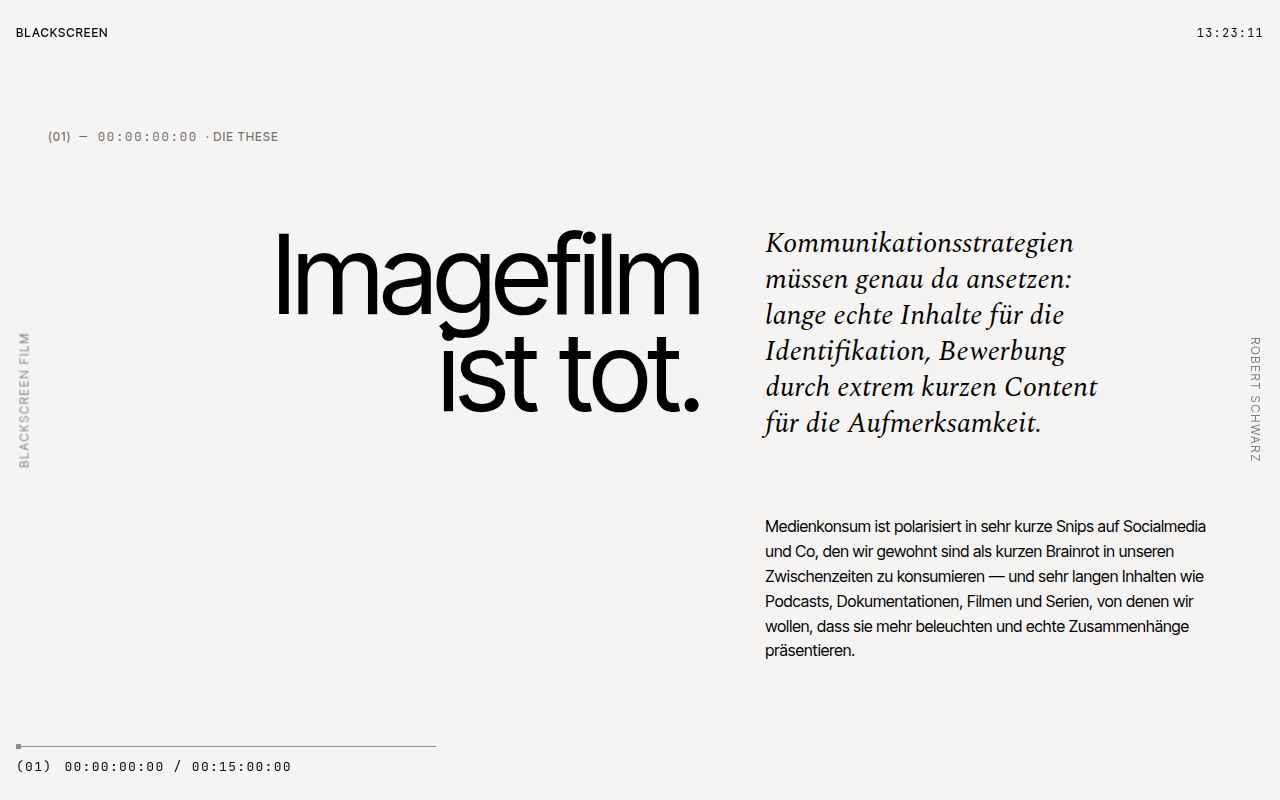
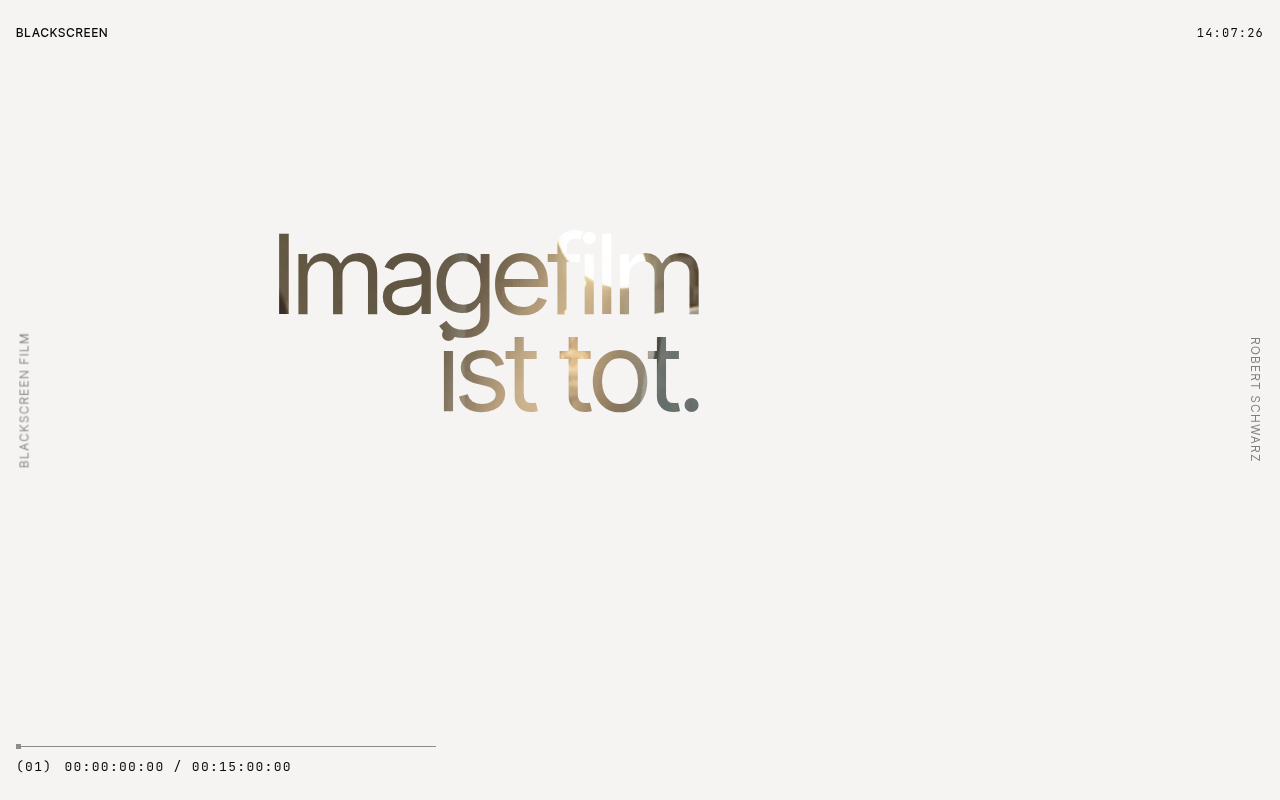
poc-blackscreen-moduswechsel: Hero-Eintritt eingebaut (Der Film kollabiert in den Satz, 3.400 ms) + varianten.html als Herleitung

diff --git a/poc-blackscreen-moduswechsel/assets/varianten-CXZj9XB6.css b/poc-blackscreen-moduswechsel/assets/varianten-CXZj9XB6.css
@@ -1,0 +1,1 @@
+@font-face{font-family:Inter Tight Variable;font-style:normal;font-display:swap;font-weight:100 900;src:url(./inter-tight-cyrillic-ext-wght-normal-okcGN4Nq.woff2) format("woff2-variations");unicode-range:U+0460-052F,U+1C80-1C8A,U+20B4,U+2DE0-2DFF,U+A640-A69F,U+FE2E-FE2F}@font-face{font-family:Inter Tight Variable;font-style:normal;font-display:swap;font-weight:100 900;src:url(./inter-tight-cyrillic-wght-normal-BS41q_Tv.woff2) format("woff2-variations");unicode-range:U+0301,U+0400-045F,U+0490-0491,U+04B0-04B1,U+2116}@font-face{font-family:Inter Tight Variable;font-style:normal;font-display:swap;font-weight:100 900;src:url(./inter-tight-greek-ext-wght-normal-DQgQPNk4.woff2) format("woff2-variations");unicode-range:U+1F00-1FFF}@font-face{font-family:Inter Tight Variable;font-style:normal;font-display:swap;font-weight:100 900;src:url(./inter-tight-greek-wght-normal-sS1B39LI.woff2) format("woff2-variations");unicode-range:U+0370-0377,U+037A-037F,U+0384-038A,U+038C,U+038E-03A1,U+03A3-03FF}@font-face{font-family:Inter Tight Variable;font-style:normal;font-display:swap;font-weight:100 900;src:url(./inter-tight-vietnamese-wght-normal-TKKdAiBA.woff2) format("woff2-variations");unicode-range:U+0102-0103,U+0110-0111,U+0128-0129,U+0168-0169,U+01A0-01A1,U+01AF-01B0,U+0300-0301,U+0303-0304,U+0308-0309,U+0323,U+0329,U+1EA0-1EF9,U+20AB}@font-face{font-family:Inter Tight Variable;font-style:normal;font-display:swap;font-weight:100 900;src:url(./inter-tight-latin-ext-wght-normal-B4u9PlvR.woff2) format("woff2-variations");unicode-range:U+0100-02BA,U+02BD-02C5,U+02C7-02CC,U+02CE-02D7,U+02DD-02FF,U+0304,U+0308,U+0329,U+1D00-1DBF,U+1E00-1E9F,U+1EF2-1EFF,U+2020,U+20A0-20AB,U+20AD-20C0,U+2113,U+2C60-2C7F,U+A720-A7FF}@font-face{font-family:Inter Tight Variable;font-style:normal;font-display:swap;font-weight:100 900;src:url(./inter-tight-latin-wght-normal-DX-nOvPD.woff2) format("woff2-variations");unicode-range:U+0000-00FF,U+0131,U+0152-0153,U+02BB-02BC,U+02C6,U+02DA,U+02DC,U+0304,U+0308,U+0329,U+2000-206F,U+20AC,U+2122,U+2191,U+2193,U+2212,U+2215,U+FEFF,U+FFFD}@font-face{font-family:Spectral;src:url(./Spectral-Italic-CDO25mTW.woff2) format("woff2");font-weight:400;font-style:italic;font-display:swap}@font-face{font-family:JetBrains Mono;src:url(./JetBrainsMono-subset-B1Xq3IVu.woff2) format("woff2");font-weight:400;font-style:normal;font-display:swap;unicode-range:U+0020-002F,U+0030-0039,U+003A-0040,U+0041-005A,U+00C4,U+00D6,U+00DC,U+00DF,U+00B7,U+2013,U+2014}:root{--paper: #f5f4f3;--ink: #000000;--near-black: #0a0a0a;--p-text: #000000;--p-strong: rgba(0, 0, 0, .85);--p-muted: rgba(0, 0, 0, .7);--p-dim: rgba(0, 0, 0, .55);--p-hair: rgba(0, 0, 0, .25);--pr-text: #f5f4f3;--pr-strong: rgba(245, 244, 243, .85);--pr-muted: rgba(245, 244, 243, .7);--pr-dim: rgba(245, 244, 243, .55);--pr-faint: rgba(245, 244, 243, .4);--pr-hair: rgba(255, 255, 255, .4);--radius: 0;--s-1: 4px;--s-2: 8px;--s-3: 12px;--s-4: 16px;--s-5: 24px;--s-6: 32px;--s-7: 40px;--s-8: 48px;--s-9: 64px;--s-10: 96px;--s-11: 128px;--space-edge: 16px;--col-step: 178px;--container: 1408px;--font-sans: "Inter Tight Variable", system-ui, -apple-system, sans-serif;--font-serif: "Spectral", Georgia, serif;--font-mono: "JetBrains Mono", ui-monospace, monospace;--vw: 100vw;--panels: 5;--steps: 6.55;--tempo: .85}*,*:before,*:after{box-sizing:border-box}html{scroll-behavior:auto}body{margin:0;background:var(--paper);color:var(--p-text);font-family:var(--font-sans);font-size:16px;line-height:1.55;font-weight:400;-webkit-font-smoothing:antialiased;overflow-x:hidden}h1,h2,h3,p,ol,ul{margin:0}ol,ul{list-style:none;padding:0}a{color:inherit}img{max-width:100%}:focus-visible{outline:2px solid currentcolor;outline-offset:4px}.skip-link{position:fixed;top:var(--s-4);left:var(--s-4);z-index:100;padding:var(--s-3) var(--s-5);background:var(--ink);color:var(--paper);font-size:12px;letter-spacing:.08em;text-transform:uppercase;transform:translateY(-200%)}.skip-link:focus-visible{transform:none}.t-mega{font-family:var(--font-sans);font-size:clamp(44px,8.6vw,172px);line-height:.88;letter-spacing:-.03em;font-weight:400;margin-bottom:.3em}.t-section{font-size:clamp(32px,4.6vw,90px);line-height:.94;letter-spacing:-.02em;font-weight:400;margin-bottom:.3em}.t-lead{font-family:var(--font-serif);font-style:italic;font-size:clamp(20px,2.2vw,30px);line-height:1.28;font-weight:400;max-width:24ch;margin-bottom:var(--s-7)}.t-sub{font-size:clamp(22px,1.9vw,34px);line-height:1.12;letter-spacing:-.01em;font-weight:500;margin-bottom:var(--s-3)}.t-body{font-size:16px;line-height:1.55;max-width:62ch;margin-bottom:var(--s-5)}.marke,.panel__meta{font-size:12px;line-height:1.4;letter-spacing:.08em;text-transform:uppercase;font-weight:500;color:var(--p-dim);margin-bottom:var(--s-8)}.marke{display:flex;flex-wrap:wrap;gap:0 var(--s-2);align-items:baseline}.marke__tc{font-family:var(--font-mono);font-size:13px;letter-spacing:.1em;font-variant-numeric:tabular-nums}.marke__tc:empty{display:none}.marke__tc:not(:empty):before{content:"— "}.marke__label:before{content:"· "}.panel__tc,.leistung__nr{font-family:var(--font-mono);font-size:13px;line-height:1.3;letter-spacing:.1em;font-variant-numeric:tabular-nums}.chrome{position:fixed;z-index:80;pointer-events:none;color:var(--ink);mix-blend-mode:difference;filter:invert(100%);font-size:12px;letter-spacing:.08em;text-transform:uppercase;font-weight:500}.chrome--wordmark{top:var(--s-5);left:var(--space-edge)}.chrome--uhr{top:var(--s-5);right:var(--space-edge);font-family:var(--font-mono);font-variant-numeric:tabular-nums;letter-spacing:.1em;text-transform:none}.achse{position:fixed;top:calc(var(--s-5) + var(--s-6));right:var(--space-edge);z-index:80;pointer-events:none;color:var(--ink);mix-blend-mode:difference;filter:invert(100%)}.achse__bahn{display:none;position:relative;height:1px;background:currentcolor;opacity:.45;margin-bottom:var(--s-3)}.achse__marke{position:absolute;top:-2px;left:0;width:5px;height:5px;background:currentcolor;transform:translateZ(0)}.achse__text{display:flex;gap:var(--s-3);font-family:var(--font-mono);font-size:13px;line-height:1.3;letter-spacing:.1em;font-variant-numeric:tabular-nums}.achse__tc:empty{display:none}.achse__tc{display:none}.brand-edge{position:fixed;top:50%;z-index:80;writing-mode:vertical-rl;pointer-events:none;font-size:12px;letter-spacing:.14em;color:var(--ink);mix-blend-mode:difference;filter:invert(100%);opacity:.5}.brand-edge--l{left:var(--space-edge);transform:translateY(-50%) rotate(180deg)}.brand-edge--r{right:var(--space-edge);transform:translateY(-50%)}@media(max-width:950px){.brand-edge{display:none}}.blende{position:fixed;top:0;right:0;bottom:0;left:0;z-index:70;pointer-events:none}.blende__bar{position:absolute;left:0;right:0;height:51%;background:var(--ink)}.blende__bar--top{top:0;transform:translate3d(0,-100%,0)}.blende__bar--bot{bottom:0;transform:translate3d(0,100%,0)}.blende-zone{height:0}.blende-zone--ab{background:linear-gradient(to bottom,var(--paper) 0 50%,var(--ink) 50% 100%)}.blende-zone--auf{background:linear-gradient(to bottom,var(--ink) 0 50%,var(--paper) 50% 100%)}.sektion{padding:var(--s-11) var(--space-edge);max-width:var(--container)}.sektion--papier{background:var(--paper);color:var(--p-text);min-height:100svh;display:grid;align-content:center;grid-template-columns:minmax(0,7fr) minmax(0,5fr);column-gap:var(--s-9);row-gap:var(--s-6)}.sektion--papier>.marke{grid-column:1 / -1}.sektion--papier>.t-mega,.sektion--papier>.t-section{grid-column:1;text-align:right}.sektion--papier>.t-lead,.sektion--papier>.t-body,.sektion--papier>.leistungen{grid-column:2}.sektion--projektion{background:var(--ink);color:var(--pr-text);max-width:none;padding:0}.sektion--projektion .marke{color:var(--pr-dim)}.hero{--hero-dauer: 3.4s;position:relative}.hero__still{position:absolute;top:0;bottom:0;left:0;z-index:0;width:var(--vw, 100vw);max-width:none;height:100%;object-fit:cover;opacity:0}.hero>.marke,.hero>.t-mega,.hero>.t-lead,.hero>.t-body{position:relative;z-index:1}.hero__typo{background-image:url(./kinderseele-1920-BzvHoJ-I.webp);background-repeat:no-repeat;-webkit-background-clip:text;background-clip:text;-webkit-text-fill-color:var(--p-text)}.js .hero__still{animation:hero-still var(--hero-dauer) both}.js .hero__typo{animation:hero-typo var(--hero-dauer) both}.js .hero>.marke,.js .hero>.t-lead,.js .hero>.t-body{animation:hero-rest .8s 2.4s both}@keyframes hero-still{0%,26%{opacity:1}56%,to{opacity:0}}@keyframes hero-typo{0%,26%{-webkit-text-fill-color:transparent;opacity:0}44%,76%{-webkit-text-fill-color:transparent;opacity:1}to{-webkit-text-fill-color:#000;opacity:1}}@keyframes hero-rest{0%{opacity:0}to{opacity:1}}.werk__pin{position:relative}.marke--pin{padding:var(--s-9) var(--space-edge) 0;margin-bottom:var(--s-6);justify-content:flex-end}.werk__track{display:block}.panel{position:relative;min-height:62svh;display:flex;flex-direction:column;justify-content:flex-end;overflow:hidden}.panel__still{position:absolute;top:0;right:0;bottom:0;left:0;z-index:0;background:linear-gradient(148deg,#3a3a3a,#101010 62%,#262626);clip-path:none}.panel__still:after{content:"STILL — MATERIAL FOLGT";position:absolute;top:var(--s-10);left:50%;transform:translate(-50%);font-family:var(--font-mono);font-size:13px;letter-spacing:.1em;color:var(--pr-faint)}.panel__still--2{background:linear-gradient(24deg,#2e2e2e,#0d0d0d 58%,#3c3c3c)}.panel__still--3{background:linear-gradient(200deg,#343434,#0b0b0b 55%,#2a2a2a)}.panel__still--4{background:linear-gradient(76deg,#282828,#101010 60%,#3f3f3f)}.panel__still--5{background:linear-gradient(320deg,#333,#0c0c0c 64%,#242424)}.panel:after{content:"";position:absolute;top:0;right:0;bottom:0;left:0;z-index:1;pointer-events:none;background:linear-gradient(to top,#000000e6,#0006 44%,#0000 72%)}.panel__tc{position:absolute;right:var(--space-edge);bottom:var(--s-6);z-index:2;color:var(--pr-dim)}.panel__text{position:relative;z-index:2;padding:var(--s-9) var(--space-edge)}.panel__text .t-body{color:var(--pr-strong);max-width:44ch}.panel__meta{color:var(--pr-muted);margin-bottom:var(--s-5)}.panel__link{display:inline-block;margin-top:var(--s-3);padding-bottom:var(--s-1);border-bottom:1px solid var(--pr-hair);font-size:12px;letter-spacing:.08em;text-transform:uppercase;font-weight:500;text-decoration:none;transition:opacity .18s ease-out}@media(hover:hover)and (pointer:fine){.panel__link:hover{opacity:.6}}.leistungen{border-top:1px solid var(--p-hair);max-width:72ch}.leistung{display:flex;gap:var(--s-5);align-items:baseline;padding:var(--s-5) 0;border-bottom:1px solid var(--p-hair);font-size:clamp(18px,1.6vw,24px)}.leistung__nr{color:var(--p-dim);flex:0 0 auto}.mail{font-size:clamp(20px,2.4vw,34px);text-decoration:none;border-bottom:1px solid var(--p-hair)}.fussnote{background:var(--paper);color:var(--p-muted);padding:var(--s-9) var(--space-edge) var(--s-10);font-size:12px;line-height:1.6}.fussnote p{max-width:76ch}@media(min-width:951px){.sektion--papier,.fussnote,.marke--pin,.panel__text{padding-left:var(--s-8);padding-right:var(--s-8)}.panel__tc{right:var(--s-8)}}@media(min-width:951px)and (prefers-reduced-motion:no-preference){.js .blende-zone{height:60svh}.js .werk{height:calc(100svh + var(--steps) * var(--tempo) * var(--vw))}.js .werk__pin{position:sticky;top:0;height:100svh;overflow:hidden;overflow:clip}.js .marke--pin{position:absolute;top:calc(var(--s-5) + var(--s-6));right:0;z-index:3;padding:0 var(--space-edge) 0 0;margin:0;color:var(--pr-dim);justify-content:flex-end}.js .achse{top:auto;right:auto;bottom:var(--s-5);left:var(--space-edge);width:min(38vw,420px)}.js .achse__bahn{display:block}.js .achse__tc:not(:empty){display:inline}.js .werk__track{display:flex;width:calc(var(--panels) * var(--vw));height:100%}.js .panel{flex:0 0 var(--vw);width:var(--vw);min-height:0;height:100%}.js .panel__text{padding-left:calc(var(--s-8) + var(--col-step));padding-bottom:var(--s-10)}}@media(max-width:950px){:root{--col-step: 0px}body,.t-body{font-size:17px}.sektion--papier{padding:var(--s-10) var(--space-edge);grid-template-columns:1fr;align-content:start;min-height:0}.sektion--papier>.t-mega,.sektion--papier>.t-section,.sektion--papier>.t-lead,.sektion--papier>.t-body,.sektion--papier>.leistungen{grid-column:1}.sektion--papier>.t-mega,.sektion--papier>.t-section{text-align:left}.marke{margin-bottom:var(--s-6)}.chrome--wordmark,.achse{top:var(--s-4)}.chrome--uhr{display:none}}@media(prefers-reduced-motion:reduce){.blende{display:none}.js .hero__still{animation:none;opacity:0}.js .hero__typo{animation:none;background-image:none;-webkit-text-fill-color:currentcolor;opacity:1}.js .hero>.marke,.js .hero>.t-lead,.js .hero>.t-body{animation:none;opacity:1}}body.varianten{overflow-x:hidden}.svg-defs{position:absolute;width:0;height:0;overflow:hidden}.vk{max-width:62ch;padding:var(--s-10) var(--s-8) var(--s-8)}.vk--fuss{max-width:none;padding-bottom:var(--s-11);border-top:1px solid var(--p-hair);margin-top:var(--s-10)}.vk__marke{font-family:var(--font-mono);font-size:13px;letter-spacing:.1em;color:var(--p-dim);margin-bottom:var(--s-5)}.vk__titel{font-size:clamp(32px,3.4vw,56px);line-height:1;letter-spacing:-.02em;font-weight:400;margin-bottom:var(--s-6)}.vk__titel--klein{font-size:clamp(24px,2vw,34px);margin-bottom:var(--s-5)}.vk__text{max-width:62ch;margin-bottom:var(--s-5)}.vk__text--eng{color:var(--p-muted);font-size:15px}.vk__hinweis{max-width:62ch;margin-top:var(--s-6);padding:var(--s-4) var(--s-5);border-left:2px solid var(--p-text);background:#0000000a;font-size:15px;line-height:1.5}code{font-family:var(--font-mono);font-size:.86em}.variante{border-top:1px solid var(--p-hair)}.variante__kopf{padding:var(--s-9) var(--s-8) var(--s-7);max-width:78ch}.variante__nr{font-family:var(--font-mono);font-size:13px;letter-spacing:.1em;color:var(--p-dim);margin-bottom:var(--s-3)}.variante__titel{font-size:clamp(26px,2.6vw,42px);line-height:1.05;letter-spacing:-.02em;font-weight:400;margin-bottom:var(--s-4)}.variante__these{max-width:68ch;margin-bottom:var(--s-6);color:var(--p-strong)}.variante__knopf{font-family:var(--font-sans);font-size:12px;font-weight:500;letter-spacing:.08em;text-transform:uppercase;padding:var(--s-3) var(--s-6);border:1px solid var(--p-text);background:transparent;color:var(--p-text);cursor:pointer;transition:background-color .18s ease-out,color .18s ease-out}@media(hover:hover)and (pointer:fine){.variante__knopf:hover{background:var(--p-text);color:var(--paper)}}.buehne{position:relative;height:82svh;min-height:520px;overflow:hidden;background:var(--ink)}.buehne--papier{background:var(--paper)}.buehne__raster{position:absolute;top:0;right:0;bottom:0;left:0;z-index:2;display:grid;align-content:center;grid-template-columns:minmax(0,7fr) minmax(0,5fr);column-gap:var(--s-9);row-gap:var(--s-6);padding:0 var(--s-8)}.buehne__raster>.marke{grid-column:1 / -1}.buehne__raster>.t-mega{grid-column:1;text-align:right;margin-bottom:0}.buehne__raster>.t-lead{grid-column:2;margin-bottom:0}@media(max-width:950px){.buehne__raster{grid-template-columns:1fr;align-content:end;padding:0 var(--space-edge) var(--s-8)}.buehne__raster>.t-mega{text-align:left}.vk,.variante__kopf{padding-left:var(--space-edge);padding-right:var(--space-edge)}}.v1{background:var(--paper)}.v1__still{position:absolute;top:0;right:0;bottom:0;left:0;z-index:0;width:100%;height:100%;object-fit:cover;opacity:0}.v1__typo{background-image:url(./kinderseele-1920-BzvHoJ-I.webp);background-repeat:no-repeat;-webkit-background-clip:text;background-clip:text;-webkit-text-fill-color:var(--p-text)}.js .v1.laeuft .v1__still{animation:v1-still var(--hero-dauer) both}.js .v1.laeuft .v1__typo{animation:v1-typo var(--hero-dauer) both}.js .v1.laeuft .marke,.js .v1.laeuft .t-lead{animation:v1-rest .8s 2.4s both}.v1{--hero-dauer: 3.4s}@keyframes v1-still{0%,26%{opacity:1}56%,to{opacity:0}}@keyframes v1-typo{0%,26%{-webkit-text-fill-color:transparent;opacity:0}44%,76%{-webkit-text-fill-color:transparent;opacity:1}to{-webkit-text-fill-color:#000;opacity:1}}@keyframes v1-rest{0%{opacity:0}to{opacity:1}}.js .v2 .zeile{opacity:0}.js .v2.laeuft .zeile{animation:anlauf .62s steps(1,end) both}.js .v2.laeuft .zeile:nth-of-type(2){animation-delay:80ms}.js .v2 .marke,.js .v2 .t-lead{opacity:0}.js .v2.laeuft .marke,.js .v2.laeuft .t-lead{animation:v1-rest .5s .62s both}@keyframes anlauf{0%{opacity:0;transform:translate3d(0,-4px,0)}16%{opacity:.55;transform:translate3d(0,3px,0)}32%{opacity:.08;transform:translate3d(0,-2px,0)}48%{opacity:.9;transform:translate3d(0,2px,0)}64%{opacity:.25;transform:translate3d(0,-1px,0)}80%{opacity:1;transform:translate3d(0,1px,0)}to{opacity:1;transform:none}}.js .v3 .v3__typo{opacity:0}.js .v3.laeuft .v3__typo{filter:url(#tinte);animation:v3-tinte 1.1s cubic-bezier(.16,1,.3,1) both}.js .v3 .marke,.js .v3 .t-lead{opacity:0}.js .v3.laeuft .marke,.js .v3.laeuft .t-lead{animation:v1-rest .6s .9s both}@keyframes v3-tinte{0%{opacity:0}30%{opacity:1}to{opacity:1}}.tabelle{overflow-x:auto;padding:0 var(--s-8);margin-bottom:var(--s-7)}.tabelle table{border-collapse:collapse;font-size:14px;min-width:46rem}.tabelle th,.tabelle td{text-align:left;padding:var(--s-3) var(--s-5) var(--s-3) 0;border-bottom:1px solid var(--p-hair);vertical-align:top}.tabelle th{font-size:12px;letter-spacing:.08em;text-transform:uppercase;font-weight:500;color:var(--p-dim)}.tabelle__ref td{color:var(--p-muted)}@media(max-width:950px){.tabelle{padding:0 var(--space-edge)}.vk--fuss{padding-left:0;padding-right:0}}@media(prefers-reduced-motion:reduce){.js .v1 .v1__still,.js .v1.laeuft .v1__still{animation:none;opacity:0}.js .v1 .v1__typo,.js .v1.laeuft .v1__typo{animation:none;background-image:none;-webkit-text-fill-color:currentcolor}.js .v2 .zeile,.js .v2.laeuft .zeile,.js .v3 .v3__typo,.js .v3.laeuft .v3__typo,.js .marke,.js .t-lead{animation:none;opacity:1;transform:none;filter:none}}

diff --git a/poc-blackscreen-moduswechsel/assets/main-Btgn0ElK.css b/poc-blackscreen-moduswechsel/assets/main-Btgn0ElK.css
@@ -1,0 +1,1 @@
+@font-face{font-family:Inter Tight Variable;font-style:normal;font-display:swap;font-weight:100 900;src:url(./inter-tight-cyrillic-ext-wght-normal-okcGN4Nq.woff2) format("woff2-variations");unicode-range:U+0460-052F,U+1C80-1C8A,U+20B4,U+2DE0-2DFF,U+A640-A69F,U+FE2E-FE2F}@font-face{font-family:Inter Tight Variable;font-style:normal;font-display:swap;font-weight:100 900;src:url(./inter-tight-cyrillic-wght-normal-BS41q_Tv.woff2) format("woff2-variations");unicode-range:U+0301,U+0400-045F,U+0490-0491,U+04B0-04B1,U+2116}@font-face{font-family:Inter Tight Variable;font-style:normal;font-display:swap;font-weight:100 900;src:url(./inter-tight-greek-ext-wght-normal-DQgQPNk4.woff2) format("woff2-variations");unicode-range:U+1F00-1FFF}@font-face{font-family:Inter Tight Variable;font-style:normal;font-display:swap;font-weight:100 900;src:url(./inter-tight-greek-wght-normal-sS1B39LI.woff2) format("woff2-variations");unicode-range:U+0370-0377,U+037A-037F,U+0384-038A,U+038C,U+038E-03A1,U+03A3-03FF}@font-face{font-family:Inter Tight Variable;font-style:normal;font-display:swap;font-weight:100 900;src:url(./inter-tight-vietnamese-wght-normal-TKKdAiBA.woff2) format("woff2-variations");unicode-range:U+0102-0103,U+0110-0111,U+0128-0129,U+0168-0169,U+01A0-01A1,U+01AF-01B0,U+0300-0301,U+0303-0304,U+0308-0309,U+0323,U+0329,U+1EA0-1EF9,U+20AB}@font-face{font-family:Inter Tight Variable;font-style:normal;font-display:swap;font-weight:100 900;src:url(./inter-tight-latin-ext-wght-normal-B4u9PlvR.woff2) format("woff2-variations");unicode-range:U+0100-02BA,U+02BD-02C5,U+02C7-02CC,U+02CE-02D7,U+02DD-02FF,U+0304,U+0308,U+0329,U+1D00-1DBF,U+1E00-1E9F,U+1EF2-1EFF,U+2020,U+20A0-20AB,U+20AD-20C0,U+2113,U+2C60-2C7F,U+A720-A7FF}@font-face{font-family:Inter Tight Variable;font-style:normal;font-display:swap;font-weight:100 900;src:url(./inter-tight-latin-wght-normal-DX-nOvPD.woff2) format("woff2-variations");unicode-range:U+0000-00FF,U+0131,U+0152-0153,U+02BB-02BC,U+02C6,U+02DA,U+02DC,U+0304,U+0308,U+0329,U+2000-206F,U+20AC,U+2122,U+2191,U+2193,U+2212,U+2215,U+FEFF,U+FFFD}@font-face{font-family:Spectral;src:url(./Spectral-Italic-CDO25mTW.woff2) format("woff2");font-weight:400;font-style:italic;font-display:swap}@font-face{font-family:JetBrains Mono;src:url(./JetBrainsMono-subset-B1Xq3IVu.woff2) format("woff2");font-weight:400;font-style:normal;font-display:swap;unicode-range:U+0020-002F,U+0030-0039,U+003A-0040,U+0041-005A,U+00C4,U+00D6,U+00DC,U+00DF,U+00B7,U+2013,U+2014}:root{--paper: #f5f4f3;--ink: #000000;--near-black: #0a0a0a;--p-text: #000000;--p-strong: rgba(0, 0, 0, .85);--p-muted: rgba(0, 0, 0, .7);--p-dim: rgba(0, 0, 0, .55);--p-hair: rgba(0, 0, 0, .25);--pr-text: #f5f4f3;--pr-strong: rgba(245, 244, 243, .85);--pr-muted: rgba(245, 244, 243, .7);--pr-dim: rgba(245, 244, 243, .55);--pr-faint: rgba(245, 244, 243, .4);--pr-hair: rgba(255, 255, 255, .4);--radius: 0;--s-1: 4px;--s-2: 8px;--s-3: 12px;--s-4: 16px;--s-5: 24px;--s-6: 32px;--s-7: 40px;--s-8: 48px;--s-9: 64px;--s-10: 96px;--s-11: 128px;--space-edge: 16px;--col-step: 178px;--container: 1408px;--font-sans: "Inter Tight Variable", system-ui, -apple-system, sans-serif;--font-serif: "Spectral", Georgia, serif;--font-mono: "JetBrains Mono", ui-monospace, monospace;--vw: 100vw;--panels: 5;--steps: 6.55;--tempo: .85}*,*:before,*:after{box-sizing:border-box}html{scroll-behavior:auto}body{margin:0;background:var(--paper);color:var(--p-text);font-family:var(--font-sans);font-size:16px;line-height:1.55;font-weight:400;-webkit-font-smoothing:antialiased;overflow-x:hidden}h1,h2,h3,p,ol,ul{margin:0}ol,ul{list-style:none;padding:0}a{color:inherit}img{max-width:100%}:focus-visible{outline:2px solid currentcolor;outline-offset:4px}.skip-link{position:fixed;top:var(--s-4);left:var(--s-4);z-index:100;padding:var(--s-3) var(--s-5);background:var(--ink);color:var(--paper);font-size:12px;letter-spacing:.08em;text-transform:uppercase;transform:translateY(-200%)}.skip-link:focus-visible{transform:none}.t-mega{font-family:var(--font-sans);font-size:clamp(44px,8.6vw,172px);line-height:.88;letter-spacing:-.03em;font-weight:400;margin-bottom:.3em}.t-section{font-size:clamp(32px,4.6vw,90px);line-height:.94;letter-spacing:-.02em;font-weight:400;margin-bottom:.3em}.t-lead{font-family:var(--font-serif);font-style:italic;font-size:clamp(20px,2.2vw,30px);line-height:1.28;font-weight:400;max-width:24ch;margin-bottom:var(--s-7)}.t-sub{font-size:clamp(22px,1.9vw,34px);line-height:1.12;letter-spacing:-.01em;font-weight:500;margin-bottom:var(--s-3)}.t-body{font-size:16px;line-height:1.55;max-width:62ch;margin-bottom:var(--s-5)}.marke,.panel__meta{font-size:12px;line-height:1.4;letter-spacing:.08em;text-transform:uppercase;font-weight:500;color:var(--p-dim);margin-bottom:var(--s-8)}.marke{display:flex;flex-wrap:wrap;gap:0 var(--s-2);align-items:baseline}.marke__tc{font-family:var(--font-mono);font-size:13px;letter-spacing:.1em;font-variant-numeric:tabular-nums}.marke__tc:empty{display:none}.marke__tc:not(:empty):before{content:"— "}.marke__label:before{content:"· "}.panel__tc,.leistung__nr{font-family:var(--font-mono);font-size:13px;line-height:1.3;letter-spacing:.1em;font-variant-numeric:tabular-nums}.chrome{position:fixed;z-index:80;pointer-events:none;color:var(--ink);mix-blend-mode:difference;filter:invert(100%);font-size:12px;letter-spacing:.08em;text-transform:uppercase;font-weight:500}.chrome--wordmark{top:var(--s-5);left:var(--space-edge)}.chrome--uhr{top:var(--s-5);right:var(--space-edge);font-family:var(--font-mono);font-variant-numeric:tabular-nums;letter-spacing:.1em;text-transform:none}.achse{position:fixed;top:calc(var(--s-5) + var(--s-6));right:var(--space-edge);z-index:80;pointer-events:none;color:var(--ink);mix-blend-mode:difference;filter:invert(100%)}.achse__bahn{display:none;position:relative;height:1px;background:currentcolor;opacity:.45;margin-bottom:var(--s-3)}.achse__marke{position:absolute;top:-2px;left:0;width:5px;height:5px;background:currentcolor;transform:translateZ(0)}.achse__text{display:flex;gap:var(--s-3);font-family:var(--font-mono);font-size:13px;line-height:1.3;letter-spacing:.1em;font-variant-numeric:tabular-nums}.achse__tc:empty{display:none}.achse__tc{display:none}.brand-edge{position:fixed;top:50%;z-index:80;writing-mode:vertical-rl;pointer-events:none;font-size:12px;letter-spacing:.14em;color:var(--ink);mix-blend-mode:difference;filter:invert(100%);opacity:.5}.brand-edge--l{left:var(--space-edge);transform:translateY(-50%) rotate(180deg)}.brand-edge--r{right:var(--space-edge);transform:translateY(-50%)}@media(max-width:950px){.brand-edge{display:none}}.blende{position:fixed;top:0;right:0;bottom:0;left:0;z-index:70;pointer-events:none}.blende__bar{position:absolute;left:0;right:0;height:51%;background:var(--ink)}.blende__bar--top{top:0;transform:translate3d(0,-100%,0)}.blende__bar--bot{bottom:0;transform:translate3d(0,100%,0)}.blende-zone{height:0}.blende-zone--ab{background:linear-gradient(to bottom,var(--paper) 0 50%,var(--ink) 50% 100%)}.blende-zone--auf{background:linear-gradient(to bottom,var(--ink) 0 50%,var(--paper) 50% 100%)}.sektion{padding:var(--s-11) var(--space-edge);max-width:var(--container)}.sektion--papier{background:var(--paper);color:var(--p-text);min-height:100svh;display:grid;align-content:center;grid-template-columns:minmax(0,7fr) minmax(0,5fr);column-gap:var(--s-9);row-gap:var(--s-6)}.sektion--papier>.marke{grid-column:1 / -1}.sektion--papier>.t-mega,.sektion--papier>.t-section{grid-column:1;text-align:right}.sektion--papier>.t-lead,.sektion--papier>.t-body,.sektion--papier>.leistungen{grid-column:2}.sektion--projektion{background:var(--ink);color:var(--pr-text);max-width:none;padding:0}.sektion--projektion .marke{color:var(--pr-dim)}.hero{--hero-dauer: 3.4s;position:relative}.hero__still{position:absolute;top:0;bottom:0;left:0;z-index:0;width:var(--vw, 100vw);max-width:none;height:100%;object-fit:cover;opacity:0}.hero>.marke,.hero>.t-mega,.hero>.t-lead,.hero>.t-body{position:relative;z-index:1}.hero__typo{background-image:url(./kinderseele-1920-BzvHoJ-I.webp);background-repeat:no-repeat;-webkit-background-clip:text;background-clip:text;-webkit-text-fill-color:var(--p-text)}.js .hero__still{animation:hero-still var(--hero-dauer) both}.js .hero__typo{animation:hero-typo var(--hero-dauer) both}.js .hero>.marke,.js .hero>.t-lead,.js .hero>.t-body{animation:hero-rest .8s 2.4s both}@keyframes hero-still{0%,26%{opacity:1}56%,to{opacity:0}}@keyframes hero-typo{0%,26%{-webkit-text-fill-color:transparent;opacity:0}44%,76%{-webkit-text-fill-color:transparent;opacity:1}to{-webkit-text-fill-color:#000;opacity:1}}@keyframes hero-rest{0%{opacity:0}to{opacity:1}}.werk__pin{position:relative}.marke--pin{padding:var(--s-9) var(--space-edge) 0;margin-bottom:var(--s-6);justify-content:flex-end}.werk__track{display:block}.panel{position:relative;min-height:62svh;display:flex;flex-direction:column;justify-content:flex-end;overflow:hidden}.panel__still{position:absolute;top:0;right:0;bottom:0;left:0;z-index:0;background:linear-gradient(148deg,#3a3a3a,#101010 62%,#262626);clip-path:none}.panel__still:after{content:"STILL — MATERIAL FOLGT";position:absolute;top:var(--s-10);left:50%;transform:translate(-50%);font-family:var(--font-mono);font-size:13px;letter-spacing:.1em;color:var(--pr-faint)}.panel__still--2{background:linear-gradient(24deg,#2e2e2e,#0d0d0d 58%,#3c3c3c)}.panel__still--3{background:linear-gradient(200deg,#343434,#0b0b0b 55%,#2a2a2a)}.panel__still--4{background:linear-gradient(76deg,#282828,#101010 60%,#3f3f3f)}.panel__still--5{background:linear-gradient(320deg,#333,#0c0c0c 64%,#242424)}.panel:after{content:"";position:absolute;top:0;right:0;bottom:0;left:0;z-index:1;pointer-events:none;background:linear-gradient(to top,#000000e6,#0006 44%,#0000 72%)}.panel__tc{position:absolute;right:var(--space-edge);bottom:var(--s-6);z-index:2;color:var(--pr-dim)}.panel__text{position:relative;z-index:2;padding:var(--s-9) var(--space-edge)}.panel__text .t-body{color:var(--pr-strong);max-width:44ch}.panel__meta{color:var(--pr-muted);margin-bottom:var(--s-5)}.panel__link{display:inline-block;margin-top:var(--s-3);padding-bottom:var(--s-1);border-bottom:1px solid var(--pr-hair);font-size:12px;letter-spacing:.08em;text-transform:uppercase;font-weight:500;text-decoration:none;transition:opacity .18s ease-out}@media(hover:hover)and (pointer:fine){.panel__link:hover{opacity:.6}}.leistungen{border-top:1px solid var(--p-hair);max-width:72ch}.leistung{display:flex;gap:var(--s-5);align-items:baseline;padding:var(--s-5) 0;border-bottom:1px solid var(--p-hair);font-size:clamp(18px,1.6vw,24px)}.leistung__nr{color:var(--p-dim);flex:0 0 auto}.mail{font-size:clamp(20px,2.4vw,34px);text-decoration:none;border-bottom:1px solid var(--p-hair)}.fussnote{background:var(--paper);color:var(--p-muted);padding:var(--s-9) var(--space-edge) var(--s-10);font-size:12px;line-height:1.6}.fussnote p{max-width:76ch}@media(min-width:951px){.sektion--papier,.fussnote,.marke--pin,.panel__text{padding-left:var(--s-8);padding-right:var(--s-8)}.panel__tc{right:var(--s-8)}}@media(min-width:951px)and (prefers-reduced-motion:no-preference){.js .blende-zone{height:60svh}.js .werk{height:calc(100svh + var(--steps) * var(--tempo) * var(--vw))}.js .werk__pin{position:sticky;top:0;height:100svh;overflow:hidden;overflow:clip}.js .marke--pin{position:absolute;top:calc(var(--s-5) + var(--s-6));right:0;z-index:3;padding:0 var(--space-edge) 0 0;margin:0;color:var(--pr-dim);justify-content:flex-end}.js .achse{top:auto;right:auto;bottom:var(--s-5);left:var(--space-edge);width:min(38vw,420px)}.js .achse__bahn{display:block}.js .achse__tc:not(:empty){display:inline}.js .werk__track{display:flex;width:calc(var(--panels) * var(--vw));height:100%}.js .panel{flex:0 0 var(--vw);width:var(--vw);min-height:0;height:100%}.js .panel__text{padding-left:calc(var(--s-8) + var(--col-step));padding-bottom:var(--s-10)}}@media(max-width:950px){:root{--col-step: 0px}body,.t-body{font-size:17px}.sektion--papier{padding:var(--s-10) var(--space-edge);grid-template-columns:1fr;align-content:start;min-height:0}.sektion--papier>.t-mega,.sektion--papier>.t-section,.sektion--papier>.t-lead,.sektion--papier>.t-body,.sektion--papier>.leistungen{grid-column:1}.sektion--papier>.t-mega,.sektion--papier>.t-section{text-align:left}.marke{margin-bottom:var(--s-6)}.chrome--wordmark,.achse{top:var(--s-4)}.chrome--uhr{display:none}}@media(prefers-reduced-motion:reduce){.blende{display:none}.js .hero__still{animation:none;opacity:0}.js .hero__typo{animation:none;background-image:none;-webkit-text-fill-color:currentcolor;opacity:1}.js .hero>.marke,.js .hero>.t-lead,.js .hero>.t-body{animation:none;opacity:1}}

diff --git a/poc-blackscreen-moduswechsel/assets/main-D9v3gsjw.js b/poc-blackscreen-moduswechsel/assets/main-D9v3gsjw.js
@@ -1,0 +1,1 @@
+import{i as X}from"./hero-bild-C11wO8uk.js";const O=5,B=[{to:0,len:.45},{to:1,len:1},{to:1,len:.5,id:"p2"},{to:2,len:1},{to:2,len:.5,id:"p3"},{to:3,len:1},{to:3,len:.5,id:"p4"},{to:4,len:1},{to:4,len:.6,id:"p5"}],T=B.reduce((e,o)=>e+o.len,0),F=["p2","p3","p4","p5"],I=.44,Z=["--vw","--panels","--steps"];function J(){const e={};let o=0;for(const n of B)n.id&&(e[n.id]={start:o/T,len:n.len/T}),o+=n.len;return e}const Q=J(),D=(()=>{const e=new Array(O).fill(0);let o=0;for(const n of B)o+=n.len,e[n.to]=o/T;return e})();function $(e){return e<0?0:e>1?1:e}function V(e){const o=e*T;let n=0,i=0;for(const a of B){if(o<=n+a.len){const S=a.len===0?1:(o-n)/a.len;return i+(a.to-i)*S}n+=a.len,i=a.to}return i}function ee(e,o){const n=Q[o];return $((e-n.start)/n.len)}function W(e){return e*e*(3-2*e)}function te(e){return e<=0||e>=1?0:e<I?W(e/I):e>1-I?W((1-e)/I):1}function ne(e){return D[Math.min(O-1,Math.max(0,e))]??0}function oe(){const e=document.documentElement,o=document.querySelector(".werk"),n=document.querySelector(".werk__pin"),i=document.querySelector(".werk__track");if(!o||!n||!i)return null;const a=Array.from(i.querySelectorAll(".panel")),S=Array.from(document.querySelectorAll(".blende-zone")),m=document.querySelector(".blende__bar--top"),p=document.querySelector(".blende__bar--bot"),P=a.slice(1).map(t=>t.querySelector(".panel__still"));let x=0,w=0,y=1,b=[],d=0,g=!1,v=Number.NaN,M=Number.NaN;const k=F.map(()=>Number.NaN);function L(){x=document.documentElement.clientWidth,e.style.setProperty("--vw",`${x}px`),e.style.setProperty("--panels",String(O)),e.style.setProperty("--steps",String(T));const t=window.innerHeight;w=o.getBoundingClientRect().top+window.scrollY,y=Math.max(1,o.offsetHeight-n.offsetHeight),b=S.map(r=>{const f=r.getBoundingClientRect().top+window.scrollY,u=r.offsetHeight;return{top:f-t,travel:Math.max(1,u+t)}}),v=Number.NaN,M=Number.NaN,k.fill(Number.NaN)}function E(){const t=window.scrollY;let r=0;for(const s of b){const h=te($((t-s.top)/s.travel));h>r&&(r=h)}if(r!==v){v=r;const s=r*100;m&&(m.style.transform=`translate3d(0, ${(s-100).toFixed(2)}%, 0)`),p&&(p.style.transform=`translate3d(0, ${(100-s).toFixed(2)}%, 0)`)}const f=$((t-w)/y),u=-V(f)*x;u!==M&&(M=u,i.style.transform=`translate3d(${u.toFixed(2)}px, 0, 0)`);for(let s=0;s<F.length;s+=1){const h=ee(f,F[s]);if(h===k[s])continue;k[s]=h;const _=P[s];_&&(_.style.clipPath=`inset(${((1-h)*50).toFixed(2)}% 0)`)}}function R(){d=0,g&&(g=!1,L()),E()}function N(){d===0&&(d=requestAnimationFrame(R))}function c(){g=!0,N()}return window.addEventListener("scroll",N,{passive:!0}),window.addEventListener("resize",c),L(),E(),{remeasure:c,teardown(){window.removeEventListener("scroll",N),window.removeEventListener("resize",c),d!==0&&cancelAnimationFrame(d),d=0;for(const t of Z)e.style.removeProperty(t);i.style.removeProperty("transform"),m==null||m.style.removeProperty("transform"),p==null||p.style.removeProperty("transform");for(const t of P)t==null||t.style.removeProperty("clip-path")},resetPin(){n.scrollLeft!==0&&(n.scrollLeft=0),n.scrollTop!==0&&(n.scrollTop=0)},panelIndexOf(t){return a.findIndex(r=>r.contains(t))},scrollToPanel(t){window.scrollTo({top:w+ne(t)*y,behavior:"auto"}),E()}}}const z=900,re=25,se=5;function j(e){return e<0?0:e>1?1:e}function q(e){return String(e).padStart(2,"0")}function C(e){return[q(Math.floor(e/3600)),q(Math.floor(e/60)%60),q(Math.floor(e)%60),q(Math.floor(e%1*re))].join(":")}function ce(){const e=document.documentElement,o=Array.from(document.querySelectorAll("[data-kapitel]")),n=document.getElementById("kapitel-nr"),i=document.getElementById("achse-tc"),a=document.getElementById("achse-marke"),S=document.querySelector(".achse__bahn"),m=document.getElementById("uhr"),p=document.querySelector(".werk"),P=document.querySelector(".werk__track"),x=Array.from(document.querySelectorAll(".panel"));let w=0,y=1,b=0,d=!1,g=Number.NaN;function v(){return Math.max(1,e.scrollHeight-window.innerHeight)}function M(){for(let c=0;c<2;c+=1){const t=v(),r=window.scrollY,f=[];for(const u of o){const s=u.querySelector(".marke__tc");s&&f.push({ziel:s,y:u.getBoundingClientRect().top+r})}if(p&&P&&x.length>0){const u=getComputedStyle(P).display==="flex",s=p.getBoundingClientRect().top+r,h=Math.max(1,p.offsetHeight-window.innerHeight);x.forEach((_,U)=>{const Y=_.querySelector(".panel__tc");Y&&f.push({ziel:Y,y:u?s+(D[U]??0)*h:_.getBoundingClientRect().top+r})})}for(const{ziel:u,y:s}of f)u.textContent=C(j(s/t)*z);if(y=v(),Math.abs(y-t)<=1)return}}function k(){const c=j(window.scrollY/y);if(c!==g){if(g=c,a&&w>0){const t=c*Math.max(0,w-se);a.style.transform=`translate3d(${t.toFixed(1)}px, 0, 0)`}i&&(i.textContent=`${C(c*z)} / ${C(z)}`)}}function L(){if(b=0,d){d=!1,R();return}k()}function E(){b===0&&(b=requestAnimationFrame(L))}function R(){w=S?S.clientWidth:0,g=Number.NaN,M(),k()}function N(){d=!0,E()}if(n){const c=new IntersectionObserver(t=>{for(const r of t)r.isIntersecting&&(n.textContent=`(${r.target.dataset.kapitel??""})`)},{rootMargin:"-50% 0px -50% 0px"});for(const t of o)c.observe(t)}if(m){const c=window.matchMedia("(prefers-reduced-motion: reduce)");let t=0;const r=()=>{const f=new Date,u=[f.getHours(),f.getMinutes()];c.matches||u.push(f.getSeconds()),m.textContent=u.map(q).join(":"),m.setAttribute("datetime",f.toISOString());const s=c.matches?6e4:1e3;window.clearTimeout(t),t=window.setTimeout(r,s-f.getTime()%s)};r(),document.addEventListener("visibilitychange",()=>{document.hidden||r()}),c.addEventListener("change",r)}return window.addEventListener("scroll",E,{passive:!0}),window.addEventListener("resize",N),R(),{remeasure:N}}const ie="(min-width: 951px) and (prefers-reduced-motion: no-preference)",G=window.matchMedia(ie);let l=null;const A=ce(),H=X(".hero",".hero__typo");function K(){G.matches?l?l.remeasure():l=oe():l&&(l.teardown(),l=null)}G.addEventListener("change",()=>{K(),A==null||A.remeasure()});K();document.fonts&&document.fonts.ready.then(()=>{l==null||l.remeasure(),A==null||A.remeasure(),H==null||H.remeasure()});document.addEventListener("focusin",e=>{const o=l;if(!o)return;const n=e.target;if(!(n instanceof Element))return;const i=o.panelIndexOf(n);if(i<0)return;o.resetPin();const a=n.getBoundingClientRect();a.left>=0&&a.right<=window.innerWidth||(o.scrollToPanel(i),requestAnimationFrame(()=>{l==null||l.resetPin(),l==null||l.scrollToPanel(i)}))});

diff --git a/poc-blackscreen-moduswechsel/index.html b/poc-blackscreen-moduswechsel/index.html
@@ -24,9 +24,20 @@
       CSS als <link>, nicht als import aus main.ts: sonst haengt das gesamte
       Erscheinungsbild am JavaScript, und "ohne JS lesbar" waere nur behauptet.
     -->
-    <script type="module" crossorigin src="./assets/main-B4YpCuMk.js"></script>
-    <link rel="modulepreload" crossorigin href="./assets/modulepreload-polyfill-B5Qt9EMX.js">
-    <link rel="stylesheet" crossorigin href="./assets/main-BBRDX6fV.css">
+
+    <!-- Das Standbild ist im Hero das groesste sichtbare Element und damit der
+         LCP-Kandidat. Ohne Preload wartet es auf das CSS. -->
+    <link
+      rel="preload"
+      as="image"
+      href="./assets/kinderseele-1920-BzvHoJ-I.webp"
+      imagesrcset="./assets/kinderseele-1280-DnzssIMk.webp 1280w, ./assets/kinderseele-1920-BzvHoJ-I.webp 1920w"
+      imagesizes="100vw"
+      fetchpriority="high"
+    />
+    <script type="module" crossorigin src="./assets/main-D9v3gsjw.js"></script>
+    <link rel="modulepreload" crossorigin href="./assets/hero-bild-C11wO8uk.js">
+    <link rel="stylesheet" crossorigin href="./assets/main-Btgn0ElK.css">
   </head>
 
   <body>
@@ -66,12 +77,25 @@
     <main>
       <!-- ============================ (01) PAPIER ==================== -->
       <section class="sektion sektion--papier hero" id="eintritt" data-kapitel="01">
+        <!-- Der Eintritt: die Seite oeffnet mit genau dem, was jedes
+             Imagefilm-Portfolio zeigt — einem vollflaechigen Filmbild. Dann
+             wird es weggenommen, ueberall AUSSER in den Buchstaben. Ohne JS
+             bleibt das Bild unsichtbar und die Headline steht schwarz da. -->
+        <img
+          class="hero__still"
+          src="./assets/kinderseele-1920-BzvHoJ-I.webp"
+          srcset="./assets/kinderseele-1280-DnzssIMk.webp 1280w, ./assets/kinderseele-1920-BzvHoJ-I.webp 1920w"
+          sizes="100vw"
+          width="1920"
+          height="890"
+          fetchpriority="high"
+          alt=""
+          aria-hidden="true"
+        />
+
         <p class="marke"><span class="marke__nr">(01)</span><span class="marke__tc"></span><span class="marke__label">Die These</span></p>
 
-        <h1 class="t-mega">
-          <span class="belichtung">Imagefilm</span><br />
-          <span class="belichtung belichtung--2">ist tot.</span>
-        </h1>
+        <h1 class="t-mega hero__typo">Imagefilm<br />ist tot.</h1>
 
         <p class="t-lead">
           Kommunikationsstrategien m&uuml;ssen genau da ansetzen: lange echte Inhalte f&uuml;r die

diff --git a/poc-blackscreen-moduswechsel/varianten.html b/poc-blackscreen-moduswechsel/varianten.html
@@ -8,15 +8,21 @@
     <script>
       document.documentElement.classList.add('js')
     </script>
-    <script type="module" crossorigin src="./assets/varianten-BR7jlg1Z.js"></script>
-    <link rel="modulepreload" crossorigin href="./assets/modulepreload-polyfill-B5Qt9EMX.js">
-    <link rel="stylesheet" crossorigin href="./assets/varianten-CnT3AzId.css">
+    <script type="module" crossorigin src="./assets/varianten-C8u9UeT2.js"></script>
+    <link rel="modulepreload" crossorigin href="./assets/hero-bild-C11wO8uk.js">
+    <link rel="stylesheet" crossorigin href="./assets/varianten-CXZj9XB6.css">
   </head>
 
   <body class="varianten">
     <header class="vk">
       <p class="vk__marke">Blackscreen &mdash; Hero-Animation</p>
       <h1 class="vk__titel">Drei Varianten</h1>
+      <p class="vk__hinweis" style="border-left-color: var(--p-text)">
+        <strong>Entschieden am 11.08.2026: Variante 01.</strong> Sie ist im Hero der Startseite
+        eingebaut, mit gestreckten Phasen (2.300 &rarr; <strong>3.400&nbsp;ms</strong>, jede
+        Phase l&auml;nger). Diese Seite bleibt als Herleitung stehen &mdash; Variante 01 hier
+        l&auml;uft in derselben L&auml;nge wie im Hero.
+      </p>
       <p class="vk__text">
         Alle drei laufen auf demselben Hero, denselben Tokens und derselben Type-Skala wie der
         PoC. Jede l&auml;sst sich beliebig oft neu ausl&ouml;sen. Unter

diff --git a/poc-blackscreen-moduswechsel/assets/hero-bild-C11wO8uk.js b/poc-blackscreen-moduswechsel/assets/hero-bild-C11wO8uk.js
@@ -1,0 +1,1 @@
+(function(){const i=document.createElement("link").relList;if(i&&i.supports&&i.supports("modulepreload"))return;for(const e of document.querySelectorAll('link[rel="modulepreload"]'))n(e);new MutationObserver(e=>{for(const t of e)if(t.type==="childList")for(const r of t.addedNodes)r.tagName==="LINK"&&r.rel==="modulepreload"&&n(r)}).observe(document,{childList:!0,subtree:!0});function s(e){const t={};return e.integrity&&(t.integrity=e.integrity),e.referrerPolicy&&(t.referrerPolicy=e.referrerPolicy),e.crossOrigin==="use-credentials"?t.credentials="include":e.crossOrigin==="anonymous"?t.credentials="omit":t.credentials="same-origin",t}function n(e){if(e.ep)return;e.ep=!0;const t=s(e);fetch(e.href,t)}})();const a=1920,p=890;function h(c,i){const s=document.querySelector(c),n=document.querySelector(i);if(!s||!n)return null;let e=0;function t(){e=0;const o=s.getBoundingClientRect(),u=n.getBoundingClientRect();if(o.width===0||o.height===0)return;const d=Math.max(o.width/a,o.height/p),l=a*d,f=p*d;n.style.backgroundSize=`${l.toFixed(1)}px ${f.toFixed(1)}px`,n.style.backgroundPosition=`${((o.width-l)/2-(u.left-o.left)).toFixed(1)}px ${((o.height-f)/2-(u.top-o.top)).toFixed(1)}px`}function r(){e===0&&(e=requestAnimationFrame(t))}return t(),window.addEventListener("resize",r),document.fonts&&document.fonts.ready.then(r),{remeasure:r}}export{h as i};

diff --git a/poc-blackscreen-moduswechsel/assets/varianten-C8u9UeT2.js b/poc-blackscreen-moduswechsel/assets/varianten-C8u9UeT2.js
@@ -1,0 +1,1 @@
+import{i}from"./hero-bild-C11wO8uk.js";const o=window.matchMedia("(prefers-reduced-motion: reduce)");i(".v1",".v1__typo");function r(e){const t=document.querySelector(`#${e} .buehne`);if(t&&(t.classList.remove("laeuft"),t.offsetWidth,t.classList.add("laeuft"),e==="v3"&&!o.matches)){const n=document.getElementById("tinte-lauf");n==null||n.beginElement()}}for(const e of document.querySelectorAll(".variante__knopf"))e.addEventListener("click",()=>r(e.dataset.ziel??""));if(!o.matches){const e=new IntersectionObserver(t=>{for(const n of t)n.isIntersecting&&(e.unobserve(n.target),r(n.target.id))},{threshold:.45});for(const t of document.querySelectorAll(".variante"))e.observe(t)}
